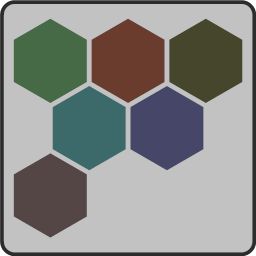
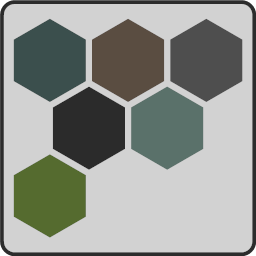
update colors

diff --git a/src/BasaltHexagonsIconsGenerator/AppCommand.cs b/src/BasaltHexagonsIconsGenerator/AppCommand.cs
@@ -126,7 +126,7 @@ class AppCommand : Command<AppCommandOptions>
 static class Constants
 {
     public const float HexagonSize = 10;
-    public const float HexagonMargin = -0.8f;
+    public const float HexagonMargin = -0.6f;
     public const int SvgWidth = 128;
     public const int SvgHeight = 128;
     public const float CanvasMarginRation = 0.12f;
@@ -145,29 +145,29 @@ static class Constants
 
     private static readonly Color[] ColorfulHexagonColors =
     [
-        Color.FromArgb(0x46, 0x69, 0x46),
-        Color.FromArgb(0x69, 0x3c, 0x2d),
-        Color.FromArgb(0x46, 0x46, 0x2d),
-        Color.FromArgb(0x3c, 0x69, 0x69),
-        Color.FromArgb(0x46, 0x46, 0x69),
-        Color.FromArgb(0x55, 0x46, 0x46),
+        Color.FromArgb(0x3b, 0x4f, 0x4d),
+        Color.FromArgb(0x5a, 0x4d, 0x41),
+        Color.FromArgb(0x4e, 0x4e, 0x4e),
+        Color.FromArgb(0x2b, 0x2b, 0x2b),
+        Color.FromArgb(0x5a, 0x71, 0x6a),
+        Color.FromArgb(0x55, 0x6b, 0x2f),
     ];
 
-    private static readonly Color[] GrayHexagonColors =
-    [
-        Color.FromArgb(0x46, 0x46, 0x46),
-        Color.FromArgb(0x3c, 0x3c, 0x3c),
-        Color.FromArgb(0x46, 0x46, 0x46),
-        Color.FromArgb(0x69, 0x69, 0x69),
-        Color.FromArgb(0x69, 0x69, 0x69),
-        Color.FromArgb(0x55, 0x55, 0x55),
-    ];
+    // private static readonly Color[] GrayHexagonColors =
+    // [
+    //     Color.FromArgb(0x8c, 0x8c, 0x8c),
+    //     Color.FromArgb(0x78, 0x78, 0x78),
+    //     Color.FromArgb(0x8c, 0x8c, 0x8c),
+    //     Color.FromArgb(0xd2, 0xd2, 0xd2),
+    //     Color.FromArgb(0xd2, 0xd2, 0xd2),
+    //     Color.FromArgb(0x55, 0x55, 0x55),
+    // ];
 
     public static readonly Theme[] Themes =
     [
-        new("dark", Color.FromArgb(0x96, 0x96, 0x96), Color.FromArgb(0x2c, 0x2c, 0x2c), ColorfulHexagonColors),
-        new("light", Color.FromArgb(0x2c, 0x2c, 0x2c), Color.FromArgb(0xc2, 0xc2, 0xc2), ColorfulHexagonColors),
-        new("gray", Color.FromArgb(0x2c, 0x2c, 0x2c), Color.FromArgb(0xc2, 0xc2, 0xc2), GrayHexagonColors),
+        // new("dark", Color.FromArgb(0x96, 0x96, 0x96), Color.FromArgb(0x2c, 0x2c, 0x2c), ColorfulHexagonColors),
+        new("light", Color.FromArgb(0x2c, 0x2c, 0x2c), Color.FromArgb(0xd2, 0xd2, 0xd2), ColorfulHexagonColors),
+        // new("gray", Color.FromArgb(0x2c, 0x2c, 0x2c), Color.FromArgb(0xc2, 0xc2, 0xc2), GrayHexagonColors),
     ];
 
     public static readonly int[] PngSizes = [32, 64, 96, 128, 256];
